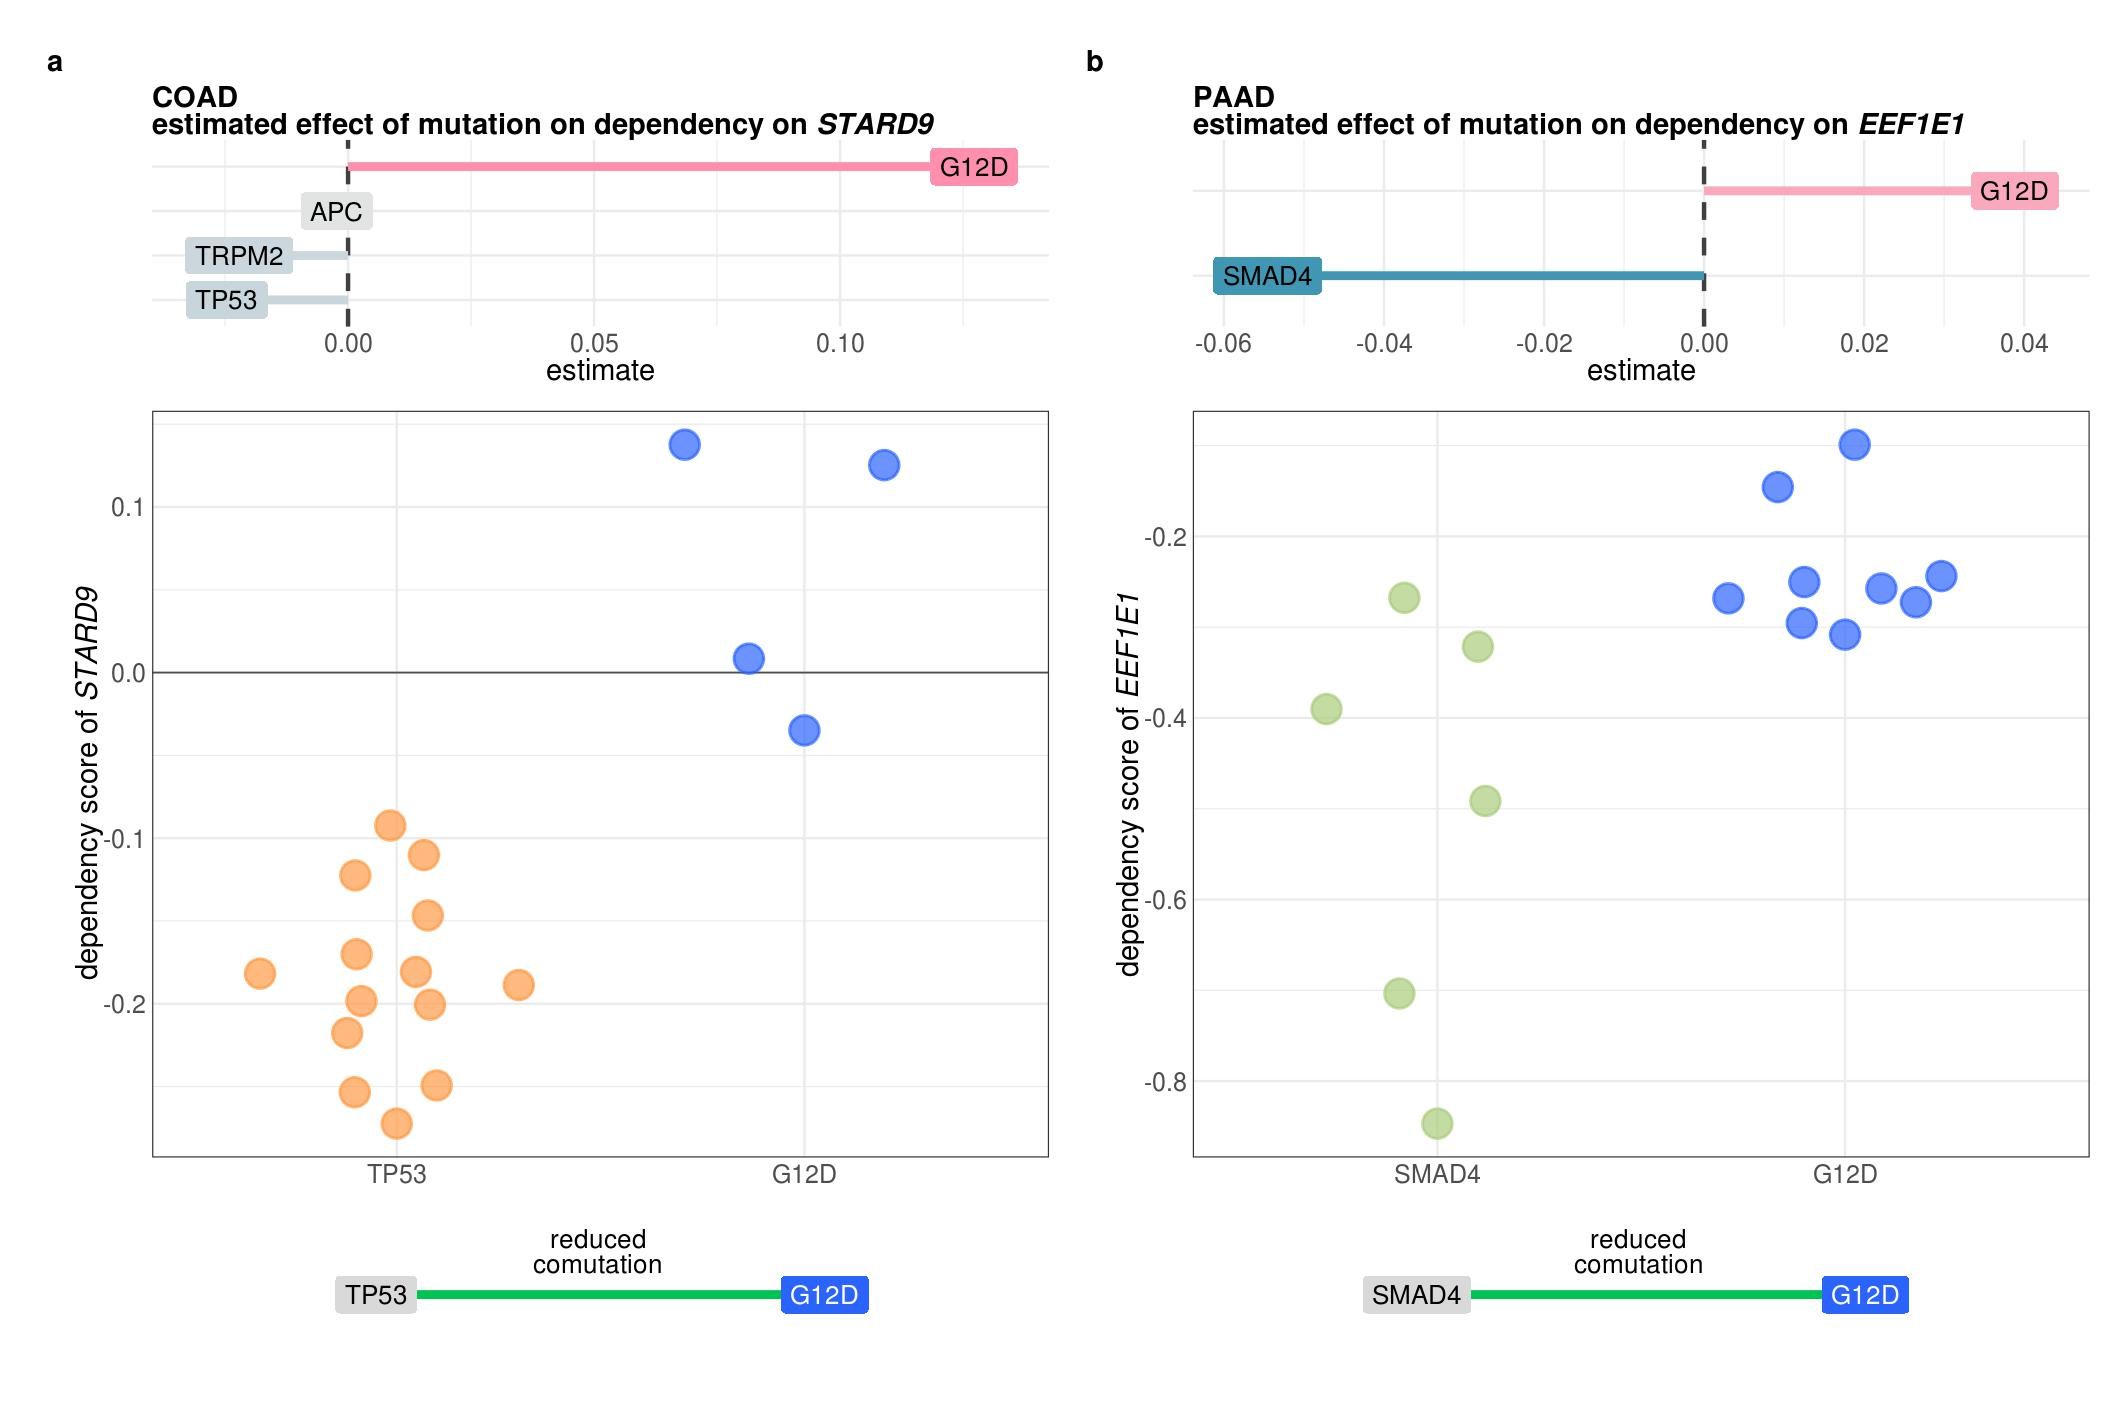
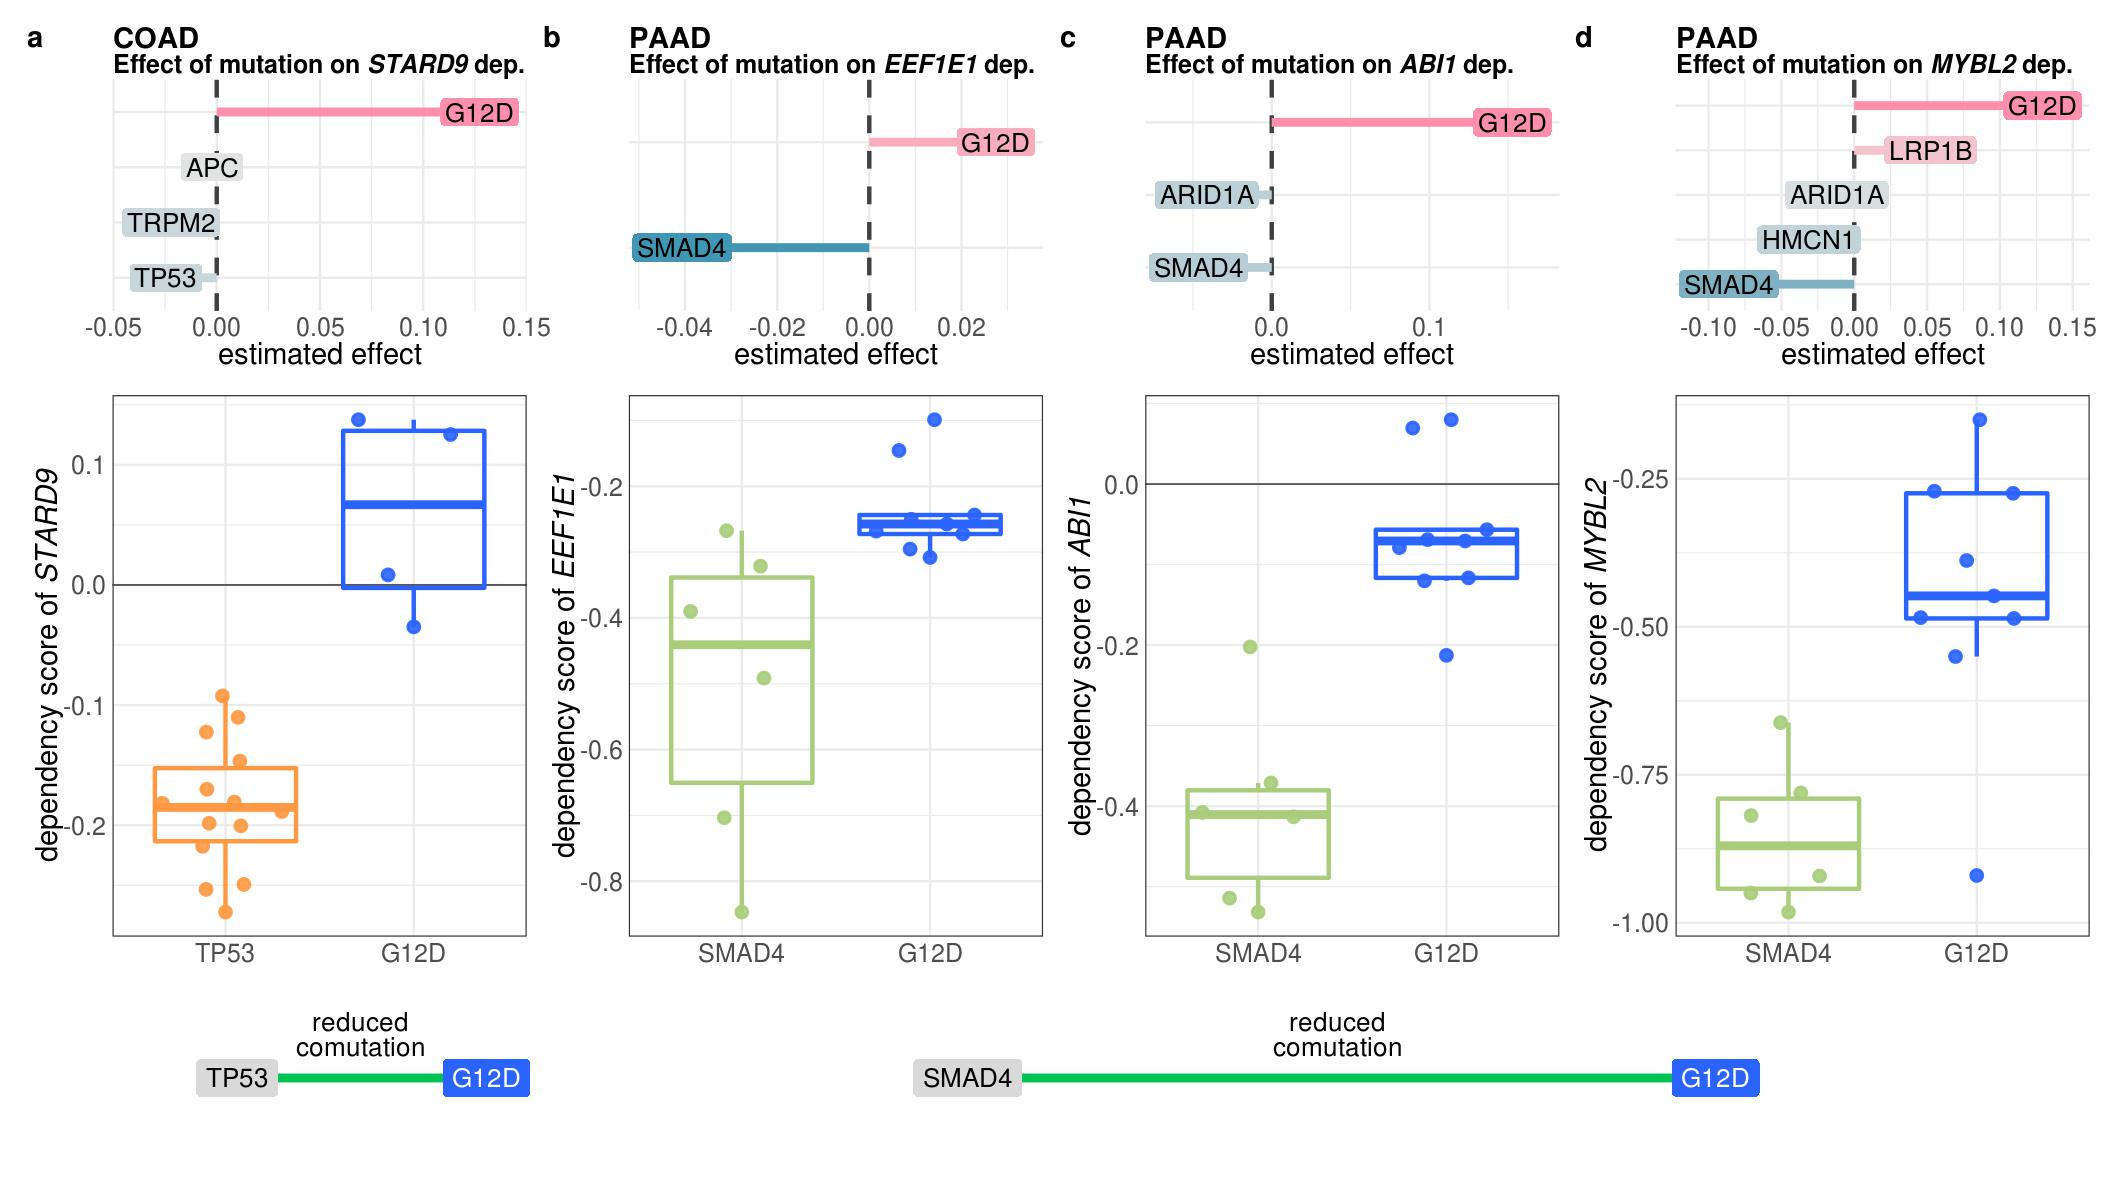
Remove second part of SL:comut analysis and make new figure for the first group as Fig. 5. Some minor text changes from KH and GM.

diff --git a/comutation-manuscript.tex b/comutation-manuscript.tex
@@ -276,31 +276,16 @@ Overall, the \KRAS{} alleles were associated with substantially different geneti
 
 \subsection*{An integrated analysis of allele-specific comutation and genetic dependencies.}
 
-One explanation for the allele-specific genetic dependency interactions we discovered is that the unique signaling properties of the \KRAS{} variant impose or remove the requirement for the function of the other gene. 
-Nevertheless, as emphasized by the weakly connected comutation networks, the \KRAS{} alleles are not acting in the same genetic environments.
-Given that each \KRAS{} allele is associated with a distinct comutation network, we posited that some of the genetic dependencies associated with specific \KRAS{} alleles were actually linked to comutated genes.
-To address this hypothesis, we constructed linear models for the dependency score of each gene with allele-specific dependency that included a coefficient for the previously linked \KRAS{} allele, a coefficient for the mutation of each gene in its comutation network, and a coefficient for the interaction of the \KRAS{} allele and each comutation gene (indicating comutation events between the \KRAS{} variant and comutating gene).
-These models were then fit with elastic net regression to isolate the most informative predictors \cite{Zou2005RegularizationNet}.
+As emphasized by the weakly connected comutation networks, the \KRAS{} alleles are not acting in the same genetic environments, and, therefore, their allele-specific genetic dependency interactions might be mediated by a comutating partner.
+To address this hypothesis, we constructed linear models for the dependency score of each gene with allele-specific dependency that included a coefficient for the previously linked \KRAS{} allele and a coefficient for the mutation of each gene in its comutation network.
+These models were then fit with elastic net regression to isolate the most informative predictors, adjusting for the RNA expression of the targeted gene \cite{Zou2005RegularizationNet}.
 
-The fit models that had non-zero coefficients for the effects of the comutation variables tended to separate into two groups.
-In the first, the mutation of a comutation partner could explain the allele-specific dependency interaction.
+Some of the models indicated that the mutation of a comutation partner could explain the allele-specific dependency interaction.
 An example of this was how the dependency of COAD cell lines on \emph{STARD9} was greater in \emph{TP53}-mutant lines than in \KRAS{} G12D lines (Fig. \ref{fig:dep-map-comut-masking}a).
 If \emph{TP53} mutations induce a stronger dependency on \emph{STARD9}, the reduced frequency of comutation between \emph{TP53} and \KRAS{} G12D would cause the opposite effect to be ascribed to the G12D allele.
-A similar effect was found between \KRAS{} G12D and \emph{SMAD4} in PAAD cell lines for the dependency on \emph{EEF1E1}, \emph{ABI1}, and \emph{MYBL2} (Fig. \ref{fig:dep-map-comut-masking}b, Supplementary Fig. \ref{sfig:dep-map-comut-masking}).
+A similar effect was found between \KRAS{} G12D and \emph{SMAD4} in PAAD cell lines for the dependency on \emph{EEF1E1}, \emph{ABI1}, and \emph{MYBL2} (Fig. \ref{fig:dep-map-comut-masking}b-d).
 Because of the reduced comutation interaction between \KRAS{} G12D and \emph{SMAD4} in PAAD, the effects of knocking out these genes can be ascribed to an allele-specific effect or to the \emph{SMAD4} mutation.
-
-The other group of models estimated effects of the comutation events that altered the interpretation of the dependency interaction between the \KRAS{} allele and knocked-out gene.
-For instance, targeting \emph{SRSF5}, a splice factor that promotes splicing of the  PKC$\beta$II isoform to promote oncogenesis \cite{Gokmen-Polar2001ElevatedCarcinogenesis., Patel2005MolecularSRp40., Jiang2009Akt2Acid.}, in COAD cell lines with \KRAS{} G12D mutations caused an increase in the growth rate. 
-The new model with variables for comutation events indicated that increased Wnt signaling was important for this effect because mutations of \emph{APC} and \emph{HECW1}, negative regulators of Wnt signaling \cite{Zhan2017, Tauriello2010TheRegulation.}, were estimated to have positive effects on the dependency score (Fig. \ref{fig:dep-map-comut-adding}a).
-\emph{APC} has increased comutation with \KRAS{} G12D while \emph{HECW1} has a reduced comutation interaction, though this is likely due to the redundancy of loss of both and a preference for the loss of \emph{APC}.
-Importantly, while cell lines with mutations to these negative Wnt regulators had reduced dependency on \emph{SRSF5}, the cell lines with concomitant \KRAS{} G12D mutations tended to have an increase in growth rate (a positive dependency score) when \emph{SRSF5} was knocked-out, suggesting that these co-occurring mutations cooperate in this genetic interaction.
-
-As another example, the loss of \emph{KIAA1257} in PAAD cell lines with a \KRAS{} G12R and/or \emph{DNAH5} mutation had a greater reduction on growth than without a mutation in either gene (Fig. \ref{fig:dep-map-comut-adding}b).
-While the mechanism is unclear as there is little known about this gene, the increased dependency from either a \KRAS{} G12R or \emph{DNAH5} mutation maybe linked to the reduced comutation interaction between these two events.
-
-The increased dependency of \KRAS{} G12D PAAD cell lines on \emph{FKBP1A} tended to be further reduced when there were also mutations to \emph{RNF43} and/or \emph{GPR98}, two genes with increased comutation interactions with \KRAS{} G12D in human PAAD cancer samples (Fig. \ref{fig:dep-map-comut-adding}c).
-Interestingly, \emph{FKBP1A} interacts with the ryanodine receptor 1 (RYR1) protein to regulate cytoplasmic calcium release from the endoplasmic reticulum or other endomembrane calcium stores \cite{Jayaraman1992FK506Receptor, Fill2002RyanodineChannels.}, and \emph{RYR1} has a reduced comutation interaction with \KRAS{} G12D.
-Together, these results create a network that links comutation interactions of \KRAS{} G12D in PAAD to the importance of intracellular calcium regulation.
+These examples highlight how the allele-specific comutation interactions of \KRAS{} can influence the interpretation of other interactions.
 
 
 \section*{Discussion}
@@ -320,8 +305,6 @@ In places, we focused on the results from the analysis of COAD, as it demonstrat
 However, allele-specific genetic interactions were not consistent between tissues, demonstrating the complex relationship between the tissue-of-origin, \kras{} function, and cooperating genetic events.
 While the intrinsic biochemical properties of a \kras{} mutant are likely maintained in each cancer, their downstream signaling properties, and ultimately their effects on tumorigenesis, are determined by the basal configuration of the tissue-specific signaling network \cite{Brubaker2019}.
 Thus, the configuration of the tissue signaling network influences the genetic interactions that arise during cancer progression.
-
-% Probably need a paragraph about the interpretation of SL screening in light of our last analysis.
 
 In addition to the importance of tissue-specificity, this study provides compelling evidence that the somatic missense mutations that activate oncogenes are not always equivalent.
 We and others have demonstrated the distinct effects of the \KRAS{} alleles, both computationally and experimentally, revealing many instances of substantial variation between different mutations of the same gene.
@@ -480,10 +463,12 @@ All other settings were set to default values.
 
 For each gene found to have a genetic dependency interaction with a \KRAS{} allele, an additional linear model was built to estimate the effect of mutations to genes that comutate with the \KRAS{} allele.
 The linear model regressed on the RNA expression level of the gene and contained binary indicator variables for if the cell line had a mutation in the targeted gene, had the specific \KRAS{} allele or another allele, or had a mutation in one of the genes that comutates with the specific \KRAS{} allele.
-Also, the interaction between the \KRAS{} allele and the comutating genes were included to represent the effect of comutation events.
 Only comutation genes that were mutated in at least 3 cell lines and WT in at least 3 cell lines were included as covariates.
-The model was fit with elastic-net regularization \cite{Zou2005RegularizationNet, R-caret} constraining the mixing parameter $\alpha \in [0.75, 1]$, thus favoring the L1 penalty.
 To avoid including perfectly correlated variables in the model, comutating genes that were perfectly correlated (i.e. they were mutated in exactly the same cell lines) were merged into a single predictor.
+After these adjustments, the models had 45, 29, and 16 coefficients for genes with dependency interactions with \KRAS{} G12D, G12V, and G13D in COAD cell lines, respectively.
+For PAAD cell lines, the models had 15, 14, and 8 coefficients for genes with dependency interactions with G12D, G12R, and G12V, respectively.
+Some models had a fewer covariates because either 1) the targeted gene was not mutated in enough of the cell lines to include the coefficient for this variable in the model, or 2) the targeted gene was mutated in the same cell lines as one or more of the comutating genes resulting in the merging of these variables.
+Due to the imbalance between the number of covariates and data points (i.e. cell lines), the models were fit with elastic-net regularization \cite{Zou2005RegularizationNet, R-caret} constraining the mixing parameter $\alpha \in [0.75, 1]$, thus favoring the L1 penalty.
 
 
 \subsection*{Code availability}
@@ -591,24 +576,9 @@ The authors declare that they have no competing interests.
 \caption{
     \textbf{Some dependency interactions can be explained by comutation events.}
     \textbf{a.} The non-zero coefficients for the model of \emph{STARD9} dependency in COAD cell lines regressed on \KRAS{} G12D (versus all other \KRAS{} alleles) and its comutation interactors (top), and the actual dependency scores for \KRAS{} G12D mutant and \emph{TP53} mutant cell lines (bottom). Cell lines without either mutation or with both are not shown. \KRAS{} G12D has reduced comutation with \emph{TP53} in COAD.
-    \textbf{b.} The non-zero coefficients for the model of \emph{EEF1E1} dependency in PAAD cell lines regressed on \KRAS{} G12D (versus all other \KRAS{} alleles) and its comutation interactors (top), and the actual dependency scores for \KRAS{} G12D mutant and \emph{SMAD4} mutant cell lines (bottom). Cell lines without either mutation or with both are not shown. \KRAS{} G12D has reduced comutation with \emph{SMAD4} in PAAD.
+    \textbf{b, c, d.} The non-zero coefficients for the models of (\textbf{b}) \emph{EEF1E1}, (\textbf{c}) \emph{ABL1}, and (\textbf{d}) \emph{MYBL2} dependency in PAAD cell lines regressed on \KRAS{} G12D (versus all other \KRAS{} alleles) and its comutation interactors (top), and the actual dependency scores for \KRAS{} G12D mutant and \emph{SMAD4} mutant cell lines (bottom). Cell lines without either mutation or with both are not shown. \KRAS{} G12D has reduced comutation with \emph{SMAD4} in PAAD.
 }
 \label{fig:dep-map-comut-masking}
-\end{figure}
-\newpage
-
-
-\begin{figure}[h!]
-\centering
-\includegraphics[width=180mm]{figures/Fig_6.jpeg}
-\caption{
-    \textbf{Integration of comutation and genetic dependency interactions.}
-    \textbf{a.} The coefficients of the indicator variables for a mutation to \emph{APC}, \emph{HECW1}, and the comutation of \KRAS{} G12D and \emph{APC} ("G12D \& APC") from the model of \emph{SRSF5} dependency scores in COAD cell lines regressed on \KRAS{} G12D (versus all other \KRAS{} alleles) and its comutation interactors are shown on the top. The middle dot-plot presents the dependency scores of \emph{SRSF5} for COAD cell lines with neither \emph{APC} nor \emph{HECW1} mutations, either mutation, or both. Blue points represent the \KRAS{} G12D cell lines. The grey line indicates the trend of dependency scores across the four categories. The comutation interactions of each gene with \KRAS{} G12D are shown along the bottom.
-    \textbf{b.} The non-zero coefficients of \KRAS{} G12R and \emph{DNAH5} from the model of \emph{KIAA1257} dependency scores in PAAD cell lines regressed on \KRAS{} G12R (versus all other \KRAS{} alleles) and its comutation interactors are shown on the top. The dependency score from knocking-out \emph{KIAA1257} for each cell line separated by if it has a mutation in neither \emph{DNAH5} nor \emph{G12R}, in one of the genes, or in both. The grey line indicates the trend of dependency scores across the four categories. The genetic interaction diagram along the bottom indicates that \KRAS{} G12R and \emph{DNAH5} have a reduced comutation interaction.
-    \textbf{c.} The coefficients of the indicator variables for a mutation to \emph{RNF}, \KRAS{} G12D, and the comutation of \KRAS{} G12D and \emph{GPR98} ("G12D \& GPR98") from the model of \emph{FKBP1A} dependency scores in PAAD cell lines regressed on \KRAS{} G12D (versus all other \KRAS{} alleles) and its comutation interactors are shown on the top. The middle dot-plot shows the dependency scores from knocking-out \emph{FKBP1A} in cells with mutations in \emph{GPR98} and/or \emph{RNF43}. Blue points represent the \KRAS{} G12D cell lines.
-    The comutation interactions of each gene with \KRAS{} G12D are shown along the bottom.
-}
-\label{fig:dep-map-comut-adding}
 \end{figure}
 \newpage
 
@@ -713,18 +683,6 @@ The authors declare that they have no competing interests.
     \textbf{a.} Clustered heatmaps of the genes that demonstrated differential genetic dependency amongst PAAD cell lines of different \KRAS{} alleles. Each column is a cell line labeled by its DepMap ID and each row is a gene.
     \textbf{b.} Examples of genes that demonstrated differential genetic dependency amongst cell lines of different \KRAS{} alleles (pairwise \emph{t}-tests; *: p < 0.05, **: p < 0.01, ***: p < 0.001; p-values were adjusted using the Benjamini-Hochberg FDR correction method).\par
 }
-\newpage
-
-
-\begin{figure}[h!]
-\centering
-\includegraphics[width=180mm]{figures/Supp_Fig_8.jpeg}
-\caption{
-    \textbf{Mutant \emph{SMAD4} can explain some dependency interactions with \KRAS{} G12D in PAAD.}
-    \textbf{a, b.} The non-zero coefficients for the model of (\textbf{a}) \emph{ABI1} and (\textbf{b}) \emph{MYLB2} dependency in PAAD cell lines regressed on \KRAS{} G12D (versus all other \KRAS{} alleles) and its comutation interactors (top), and the actual dependency scores for \KRAS{} G12D mutant and \emph{SMAD4} mutant cell lines (bottom). Cell lines without either mutation or with both are not shown. \KRAS{} G12D has reduced comutation with \emph{SMAD4} in PAAD.
-}
-\label{sfig:dep-map-comut-masking}
-\end{figure}
 \newpage
 
 %%TC:endignore
